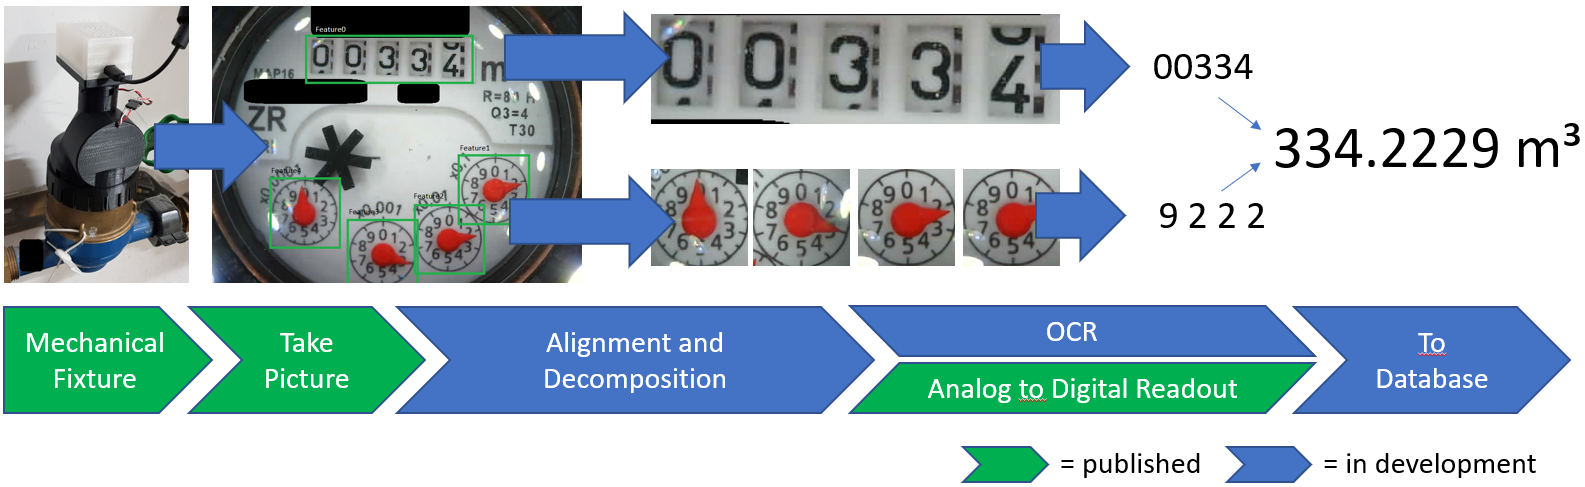
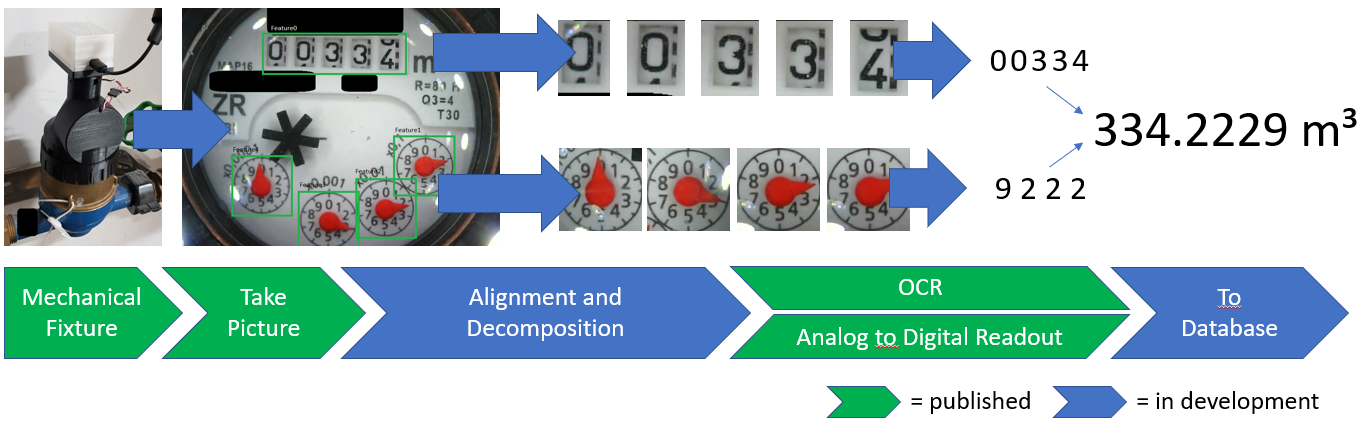
Update

diff --git a/README.md b/README.md
@@ -13,6 +13,6 @@ The system consists of a hardware fixture and and successiv software code to tra
 | Mechanical Fixture |	Hardware components to fix a camera and illumination on a water meter  | [https://www.thingiverse.com/thing:3238162](https://www.thingiverse.com/thing:3238162)  |
 | Taking pictures |	ESP8266 based html server to provide pictures from the camera  | [https://github.com/jomjol/water-meter-picture-provider](https://github.com/jomjol/water-meter-picture-provider)  |
 | Alignment and decomposition |	Image processing with OpenCV library to extract the needed features  | n.a. |
-| OCR for full digits |	Usage for OCR to extract the m³ part of the water meter  | n.a. |
+| OCR for full digits |	Usage for OCR to extract the m³ part of the water meter  | [https://github.com/jomjol/neural-network-digital-counter-readout](https://github.com/jomjol/neural-network-digital-counter-readout) |
 | Analog to Digital Readout |	Usage of a Neural Network to digitalize analog pointers | [https://github.com/jomjol/neural-network-analog-needle-readout](https://github.com/jomjol/neural-network-analog-needle-readout) |
 | To Database |	Process digitalized numbers and insert into a database | n.a. |
